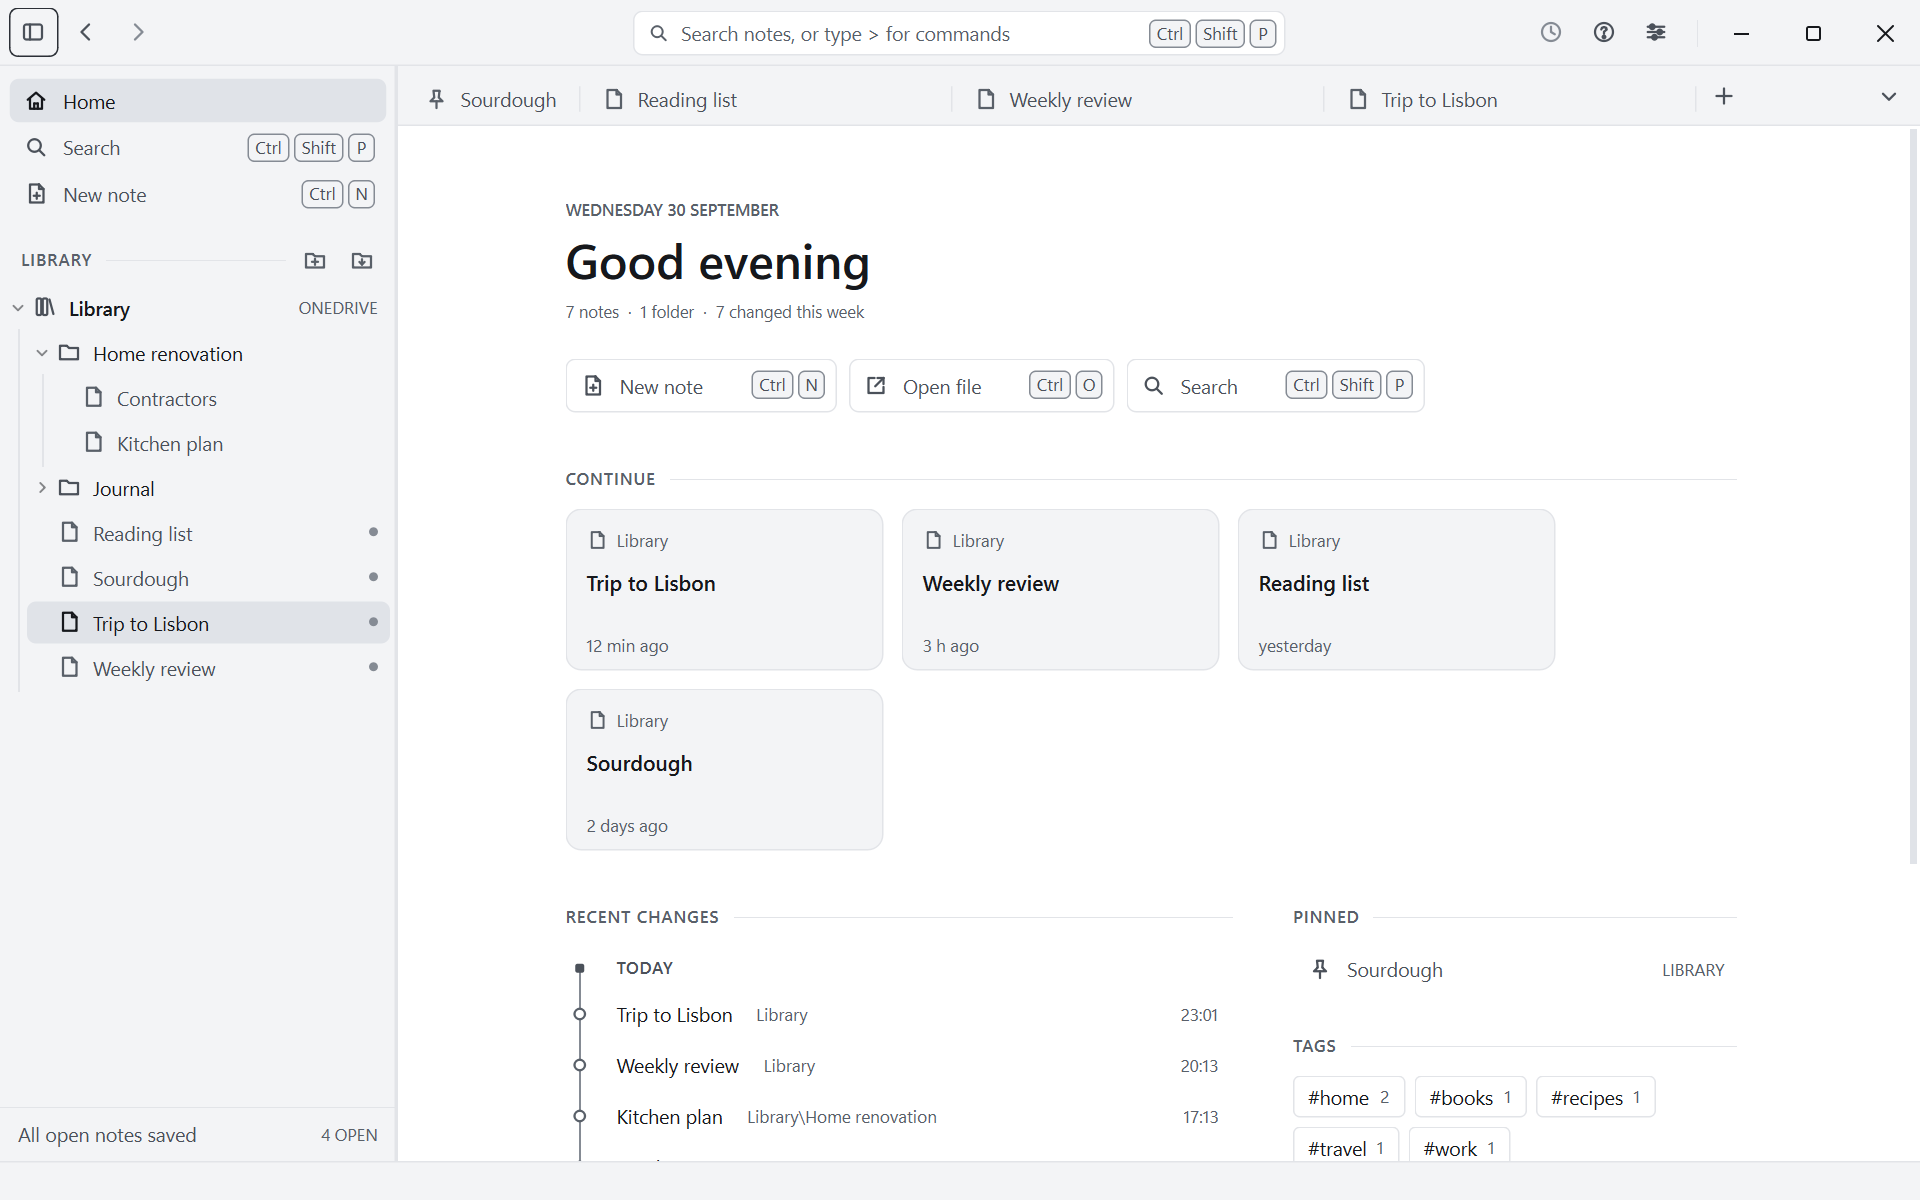
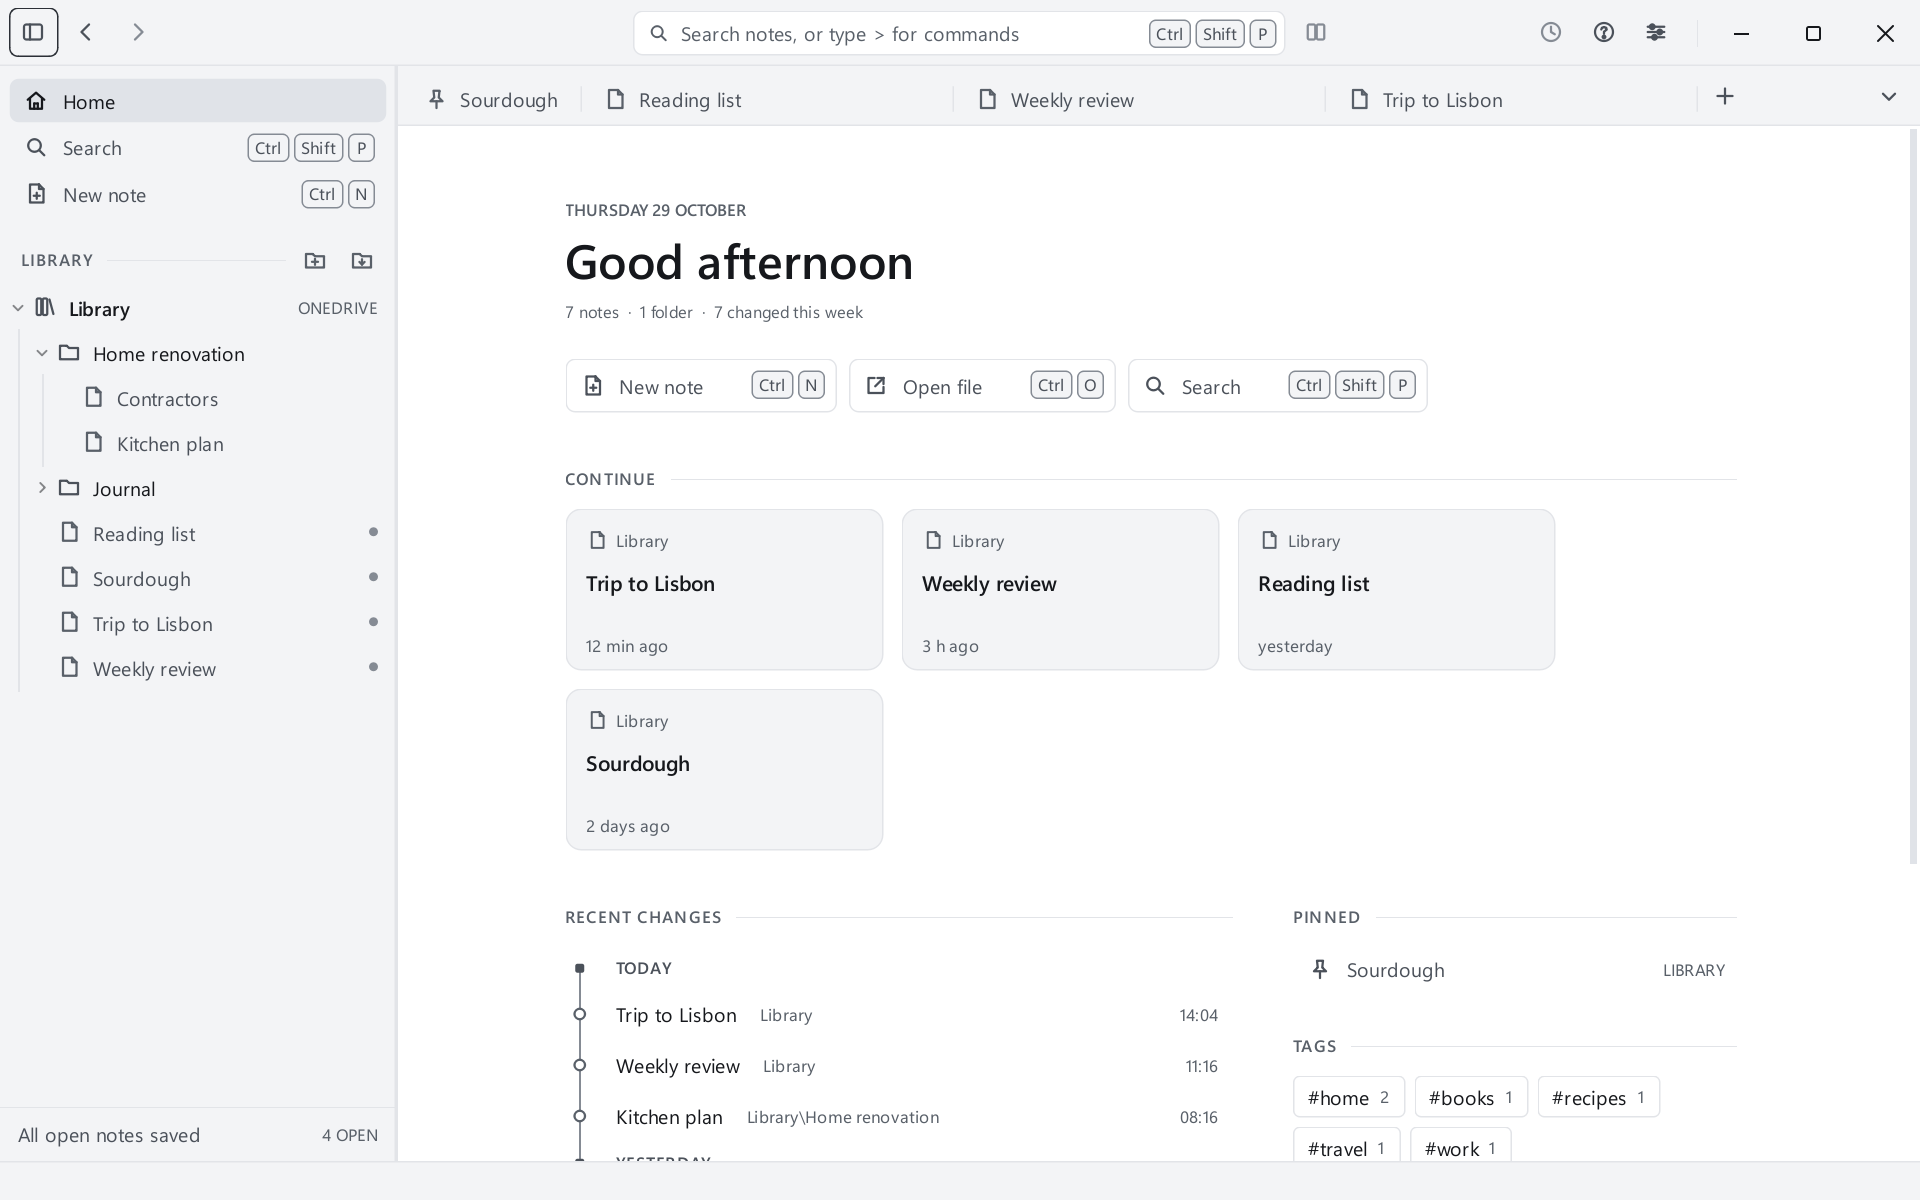
Update README screenshots and fix wrapping of short notes

diff --git a/src/paperless_notes/ui/editor/note_editor.py b/src/paperless_notes/ui/editor/note_editor.py
@@ -290,10 +290,19 @@ class NoteEditor(QPlainTextEdit):
             extra = natural - cap
             side += extra // 2
             right += extra - extra // 2
+        before = self.viewport().width()
         self.setViewportMargins(side, 0, right, 0)
+        if self.viewport().width() != before:
+            self._rewrap()
         cr = self.contentsRect()
         self._gutter.setGeometry(QRect(cr.left() + side - gutter, cr.top(), gutter, cr.height()))
         self.column_changed.emit(side, max(0, self.width() - side - right))
+
+    def _rewrap(self) -> None:
+        """Wrap the text again to the visible column. Qt wraps on a resize before the margins above change,
+        and not when only the margins change, so a short note kept lines wider than its column."""
+        size = self.size()
+        super().resizeEvent(QResizeEvent(size, QSize(-1, size.height())))
 
     def resizeEvent(self, event: QResizeEvent) -> None:
         super().resizeEvent(event)

diff --git a/CHANGELOG.md b/CHANGELOG.md
@@ -1,13 +1,20 @@
 # Changelog
 
+## Unreleased
+
+### Fixes
+- A short note opened in a wide window wraps to its column at once. Its long lines could run past the right
+  edge until the window was resized.
+
 ## 4.4.0 (2026-10-29)
 
 ### Writing
 - Spelling is rebuilt. Obvious typos such as teh, recieve or becuase are corrected as soon as the word
   ends, each correction as its own undo step, and a small note under the word shows the change: Esc puts
   your word back this time and the same typo is still corrected next time, Shift+Esc puts it back and adds
-  it to your dictionary, and Ctrl+Z also undoes it. Names, slang and less certain words are only underlined: rest the
-  pointer on one, or press Ctrl+Period with the caret in it, for suggestions, Add to dictionary and Ignore.
+  it to your dictionary, and Ctrl+Z also undoes it. Names, slang and less certain words are only
+  underlined: rest the pointer on one, or press Ctrl+Period with the caret in it, for suggestions, Add to
+  dictionary and Ignore.
   Right-clicking the word lists the same. Settings, Writing, Fix obvious typos as you type turns the
   corrections off. The faded suggestion drawn over the word and its bar are gone.
 - Enter inside bold, italic or strikethrough keeps both lines formatted; Backspace or Delete at the join

diff --git a/README.md b/README.md
@@ -218,12 +218,10 @@ onedir application, verifies its contents, creates the portable ZIP and installe
 
 ## Verification status
 
-The 4.3.0 source passed:
+The 4.4.0 source passed, on Windows:
 
 - Text hygiene, Ruff lint and formatting, and strict mypy checks.
-- 1,272 functional tests with 92.05 percent coverage.
-- 44 untraced timing and memory tests.
-- 5,300 generated sync worlds and mutation checks.
+- 1,353 unit, integration, property, generated sync, fuzz and interface tests.
 - Layout checks at 100, 125, 150 and 200 percent in both themes, at 1365 by 900 and 720 by 480.
 
 ## License and third-party software
